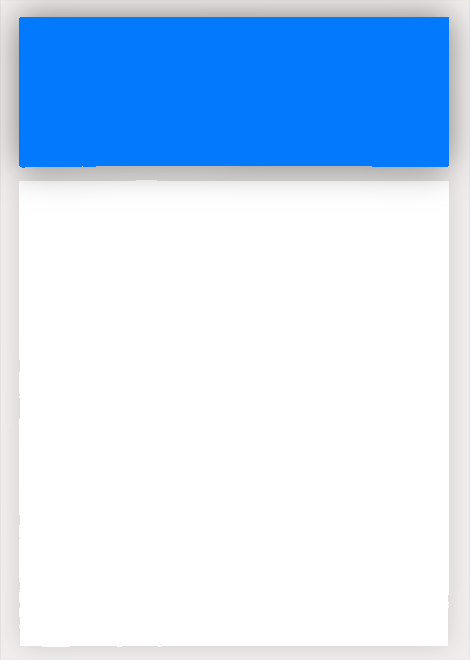
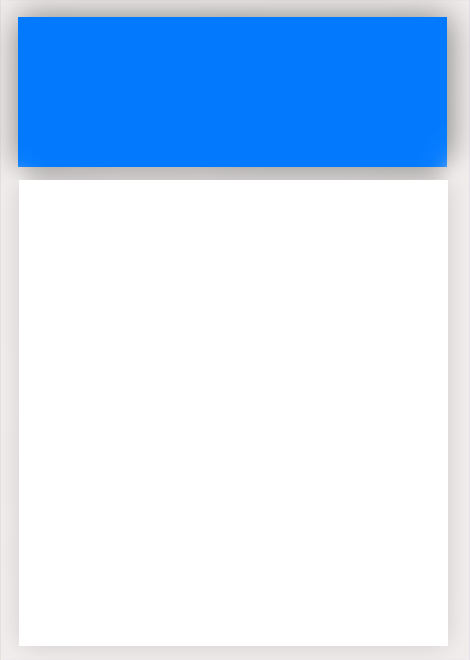
2.7
- Interface visual completa
- troca de cor do player
- Textos

Changed region(s): [[0.9234, 0.2424, 0.9532, 0.2727]]

diff --git a/src/view/FrameView.java b/src/view/FrameView.java
@@ -53,6 +53,9 @@ public class FrameView extends JFrame{ // Canvas
 		
 		int ajustaXpainelInfo=3;
 		int ajustaYpainelInfo=-2;
+		
+		int ajusataXCompDireita=-10;
+		int ajusataXCompEsquerda=+5;
 			
 		setSize(LARG_DEFAULT,ALT_DEFAULT);
 		setResizable(false);
@@ -83,7 +86,7 @@ public class FrameView extends JFrame{ // Canvas
 		Div PainelDado = new Div(0,0,167,144,Color.LIGHT_GRAY);
 		
 		// x e y -> 262 x 255
-		PainelDado.setBounds(262,255,(int) PainelDado.getLargura(),(int)PainelDado.getAltura());
+		PainelDado.setBounds(ajusataXCompDireita+262,255,(int) PainelDado.getLargura(),(int)PainelDado.getAltura());
 		PainelDado.setBackground(PainelDado.getColor());
 		
 		
@@ -92,7 +95,7 @@ public class FrameView extends JFrame{ // Canvas
 		// add Dado e Botao de rolar o dado
 		
 		Dado_graf VDado = new Dado_graf(); 
-		VDado.setBounds(5,10,500,500);		
+		VDado.setBounds(ajusataXCompDireita+5,10,500,500);		
 		
 		 // Inicializa o desenho do dado
 		VDado.pinta_dado(-1);
@@ -100,7 +103,7 @@ public class FrameView extends JFrame{ // Canvas
 		
 		
 		JBotao bJogaDado = new JBotao("Jogue o dado"); // botao Jogar dado
-		bJogaDado.setBounds(262,422,167,70);
+		bJogaDado.setBounds(ajusataXCompDireita+262,422,167,70);
 		bJogaDado.setBorder(new RoundedBorder(7));
 		bJogaDado.setBackground(new Color(37,220,40));
 		bJogaDado.setPressedBackgroundColor(new Color(101,254,3));
@@ -128,6 +131,36 @@ public class FrameView extends JFrame{ // Canvas
 		BLoadGame.setPressedBackgroundColor(new Color(100,200,251));
 		BLoadGame.setHoverBackgroundColor(new Color(248,246,246));
 		
+		
+		
+		Div InfPlayer = new Div(162,560,167,120,new Color(244,239,239));//new Color(244,239,239)
+		InfPlayer.setBounds(ajusataXCompDireita+262,560,167,60);
+		InfPlayer.setBackground(PainelDado.getColor());
+		
+		
+		PainelPlayer CorPlayer = new PainelPlayer(162,550,167,120);//new Color(244,239,239)
+		CorPlayer.setBounds(ajusataXCompDireita+272,570,147,40);
+		CorPlayer.setBackground(CorPlayer.getColor());
+		
+		Div InfTexto = new Div(35,300,167,400,new Color(244,239,239));//new Color(244,239,239)
+		InfTexto.setBounds(ajusataXCompEsquerda+45,255,167,365);
+		InfTexto.setBackground(InfTexto.getColor());
+		
+		
+		
+		
+		// add textos
+		
+		JLabel labelCorPlayer = new JLabel("Jogador da vez");
+        JLabel labelDado = new JLabel("Dado");
+        JLabel labelInfo = new JLabel("Informações");
+        JLabel labelMenu = new JLabel("Menu");
+        labelCorPlayer.setBounds(ajusataXCompDireita+263,520,100,20);
+        labelDado.setBounds(ajusataXCompDireita+263,212,100,20);
+        labelInfo.setBounds(ajusataXCompEsquerda+45,200,100,20);
+        labelMenu.setBounds(263,100,100,20);
+		
+		
 
 
 		// criacao das Divisoes
@@ -136,7 +169,7 @@ public class FrameView extends JFrame{ // Canvas
 		jp2.setBounds(470,0,10,700);
 		jp3.setBounds(480,0,700,700);
 		
-		
+		InfPlayer.add(CorPlayer);
 		
 		// adicionando filhos aos paineis Pai
 		
@@ -175,11 +208,17 @@ public class FrameView extends JFrame{ // Canvas
 		layers.add(BSalvar,0);
 		layers.add(BNovoJogo,0);
 		layers.add(BLoadGame,0);
-		
-
+		layers.add(InfPlayer,0);
+		layers.add(CorPlayer,0);
+		layers.add(labelMenu,0);
+		layers.add(labelInfo,0);
+		layers.add(labelDado,0);
+		layers.add(labelCorPlayer,0);
+		layers.add(InfTexto,0);
 		
 		
 		layers.add(bJogaDado, 0); 
+		
 		
 		
 				
@@ -216,6 +255,9 @@ public class FrameView extends JFrame{ // Canvas
                 
                 Tb.redesenha((Graphics2D)Tb.getGraphics(),263+(44*numeroInteiro) ,alet);
                 VDado.GeraDado(numeroInteiro,(Graphics2D)VDado.getGraphics());
+                
+               
+                CorPlayer.proximaCorPlayer();
                 
             }
 

diff --git a/src/view/PainelPlayer.java b/src/view/PainelPlayer.java
@@ -1,0 +1,76 @@
+package view;
+
+import java.awt.Color;
+import java.awt.Graphics;
+import java.awt.Graphics2D;
+import java.awt.geom.Rectangle2D;
+
+import javax.swing.*;
+
+
+class PainelPlayer extends JPanel {
+	// painel que mostra a cor do player
+	
+	
+	Color vCores[] = {Color.red, Color.green, Color.yellow, Color.blue} ;
+	int IndCor=0;
+	Color cor;
+
+	int x,y,larg,alt;
+	
+	
+	PainelPlayer ( int x, int y, int larg, int alt){
+		this.cor=Color.red;
+		this.x=x;
+		this.y=y;
+		this.larg=larg;
+		this.alt=alt;		
+	}
+	
+	
+	public Color getColor() {
+		return this.cor;
+	}
+	
+	public void setCor(int i) {
+		this.cor=vCores[i];	
+		this.setBackground(this.cor);
+		return;
+	}
+	
+	public void setCor(Color c) {
+		this.cor=c;
+		this.setBackground(c);
+		return;
+	}
+
+	public void proximaCorPlayer() {	
+		int novo= this.IndCor+1;
+		
+		if (novo>=4) {
+			novo=0;
+		}		
+		this.IndCor=novo;	
+		this.setCor(novo);
+		return ;
+	}
+	
+
+//	
+//	public void paintComponent(Graphics g) {
+//		
+//		
+//		super.paintComponent(g);
+//		Graphics2D g2d=(Graphics2D) g;
+//		
+//		//Retangulo
+//		
+//		Rectangle2D rt = new Rectangle2D.Float(this.x,this.y,this.larg,this.alt);
+//		g2d.setPaint(this.cor);
+//		g2d.fill(rt);
+//	}
+	
+	
+	
+	
+}

diff --git a/src/controler/Rodada.java b/src/controler/Rodada.java
@@ -34,22 +34,22 @@ public class Rodada {
 		// Enquando nao ha um vencedor
 		
 		
-		System.out.println("opcao>");
-		Scanner sc = new Scanner(System.in);
-		int opcao = sc.nextInt();
-		
-				
-		if (opcao ==4) {		
-//			Div nq = Fv.getDivs(1);
-//			nq.setBackground(Color.orange);
-//			nq.repaint();
-			
-		
-						
-		}
+//		System.out.println("opcao>");
+//		Scanner sc = new Scanner(System.in);
+//		int opcao = sc.nextInt();
+//		
+//				
+//		if (opcao ==4) {		
+////			Div nq = Fv.getDivs(1);
+////			nq.setBackground(Color.orange);
+////			nq.repaint();
+//			
+//		
+//						
+//		}
 		
 	
-		sc.close();
+//		sc.close();
 	}
 	
 	public void setFrameView(FrameView nfv) {
